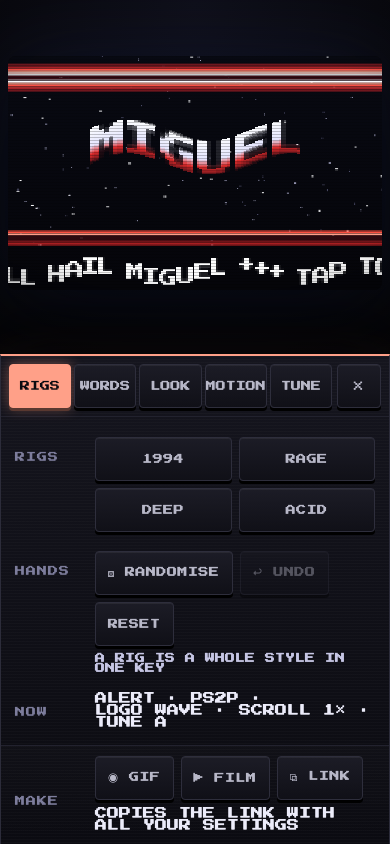
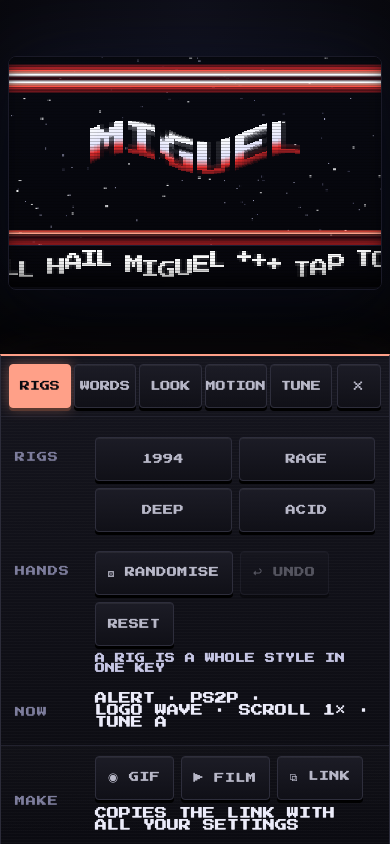
r2v14: caret boundary, pointer guards, and a trough that reads as a shelf
- wrapped caret lands on the row below at a span boundary, not above it
- caret holds on reduced-motion stills — no blink sampling on one-shot
- grabs tracked per pointer id; cancel/up/leave all unbind; a mode flip
  mid-drag tears down instead of driving a dead pin
- reduced-motion 'scroll' seats a caret, not a scrub of an unread clock
- only a real grab prevents default — taps elsewhere still blur/click
- rendered-index map accounts for trim, case, and ß->SS expansion
- stale caret cleared on popstate/hash navigation
- tube gets a hairline bezel; the trough gains a top rule and floor so
  text can never read as floating in the gap beneath the glass
- README: name seeds the default, the #g2 link carries the full spec;
  film carries the tune unless TUNE is off

Changed region(s): [[0.0, 0.0616, 0.9846, 0.2156], [0.0, 0.2464, 0.9846, 0.3389], [0.9538, 0.1848, 0.9846, 0.2156]]

diff --git a/src/App.tsx b/src/App.tsx
@@ -117,6 +117,10 @@ export default function App() {
     const onNav = () => {
       const n = pathName();
       setSpec(decodeSpec(location.hash, n ?? ''));
+      // the new text didn't come from the field — a stale glass caret
+      // could land inside the +++ tail
+      const dd = demoRef.current;
+      if (dd) dd.pinCaret = -1;
       if (n !== nameRef.current) {
         // the route owns the phase: back to '/' means landing, a different
         // name means a fresh tube that still has to be powered on — and a
@@ -536,54 +540,70 @@ export default function App() {
           onPointerDown={(e) => {
             // with the deck open the glass is a surface you can grab —
             // a press on the parked line seats the field's caret there;
-            // a drag on the pinned crawl walks the sentence by hand
+            // a drag on the pinned crawl walks the sentence by hand.
+            // reduced motion draws the 'scroll' pin parked too, so a grab
+            // there is a caret seat, not a scrub of a clock no one reads
             const d = demoRef.current;
             const m = previewRef.current;
-            if (!d || (m !== 'scrollhold' && m !== 'scroll')) return;
-            // keep the field's focus — a canvas press must not blur it
-            e.preventDefault();
+            const park = m === 'scrollhold' || (m === 'scroll' && REDUCED);
+            if (!d || (!park && m !== 'scroll')) return;
             const cv = e.currentTarget;
-            cv.setPointerCapture(e.pointerId);
             const toCv = (x: number, y: number): [number, number] => {
               const r = cv.getBoundingClientRect();
               return [(x - r.left) * 320 / r.width, (y - r.top) * 200 / r.height];
             };
-            if (m === 'scrollhold') {
+            const pid = e.pointerId;
+            // every grab guards on its own pointerId and dies the moment
+            // the pin it was bound to leaves — a second finger or a mid-drag
+            // blur can't keep driving a dead mode
+            const bind = (move: (ev: PointerEvent) => void, up: () => void) => {
+              const mm = (ev: PointerEvent) => {
+                if (ev.pointerId !== pid) return;
+                if (previewRef.current !== m) { done(); return; }
+                move(ev);
+              };
+              const done = () => { up(); cv.removeEventListener('pointermove', mm); cv.removeEventListener('pointerup', done); cv.removeEventListener('pointercancel', done); };
+              cv.addEventListener('pointermove', mm);
+              cv.addEventListener('pointerup', done);
+              cv.addEventListener('pointercancel', done);
+            };
+            if (park) {
               const el = document.querySelector<HTMLTextAreaElement>('textarea[aria-label="scrolltext"]');
               if (!el) return;
+              // keep the field's focus — a canvas press must not blur it
+              e.preventDefault();
+              cv.setPointerCapture(pid);
+              // seat() maps a glass index back to a field index — the glass
+              // shows the value uppercased and trimmed, so lengths can drift
+              // (a leading space, ß→SS); walk the field until its uppercase
+              // prefix reaches the glass index
+              const lead = (el.value.match(/^\s*/) ?? [''])[0].length;
               const seat = (x: number, y: number) => {
                 const [px, py] = toCv(x, y);
-                const i = Math.min(d.caretAt(px, py), el.value.length);
+                const gi = d.caretAt(px, py) + lead;
+                let i = 0, g = 0;
+                while (i < el.value.length && g < gi) { g += el.value[i].toUpperCase().length; i++; }
                 el.setSelectionRange(i, i);
-                d.pinCaret = i;
+                d.pinCaret = g - lead;
               };
               seat(e.clientX, e.clientY);
               el.focus();
-              const move = (ev: PointerEvent) => seat(ev.clientX, ev.clientY);
-              const up = () => { cv.removeEventListener('pointermove', move); cv.removeEventListener('pointerup', up); cv.removeEventListener('pointercancel', up); };
-              cv.addEventListener('pointermove', move);
-              cv.addEventListener('pointerup', up);
-              cv.addEventListener('pointercancel', up);
+              bind((ev) => seat(ev.clientX, ev.clientY), () => {});
             } else {
               // scrubs only where the crawl lives — a grab elsewhere is a
               // plain touch on the tube
               const [, py] = toCv(e.clientX, e.clientY);
               if (py < 158) return;
+              cv.setPointerCapture(pid);
               let lastX = e.clientX, lastY = e.clientY;
-              const move = (ev: PointerEvent) => {
+              bind((ev) => {
                 const k = 320 / cv.getBoundingClientRect().width;
                 d.scrub((ev.clientX - lastX) * k);
                 // vertical drag bends the wave while the grab is held —
                 // up is wilder, down is flatter, release snaps back to 1
                 d.bend((ev.clientY - lastY) * (200 / cv.getBoundingClientRect().height));
                 lastX = ev.clientX; lastY = ev.clientY;
-              };
-              // release OR a canceled grab snaps the wave back — a stranded
-              // bend must not outlive the gesture
-              const up = () => { d.pinBend = 1; cv.removeEventListener('pointermove', move); cv.removeEventListener('pointerup', up); cv.removeEventListener('pointercancel', up); };
-              cv.addEventListener('pointermove', move);
-              cv.addEventListener('pointerup', up);
-              cv.addEventListener('pointercancel', up);
+              }, () => { d.pinBend = 1; });
             }
           }} />
         <div className="crt" aria-hidden>
@@ -658,7 +678,15 @@ export default function App() {
           onCaret={(i) => {
             const d = demoRef.current;
             if (!d) return;
-            d.pinCaret = i;
+            // the glass shows the value uppercased and trimmed — map the
+            // field's caret index into glass coordinates the same way the
+            // pointer path maps them back
+            if (i >= 0) {
+              const el = document.querySelector<HTMLTextAreaElement>('textarea[aria-label="scrolltext"]');
+              const v = el?.value ?? '';
+              const lead = (v.toUpperCase().match(/^\s*/) ?? [''])[0].length;
+              d.pinCaret = v.slice(0, i).toUpperCase().length - lead;
+            } else d.pinCaret = -1;
             if (REDUCED && phaseRef.current === 'running') d.renderReduced(greetzRef.current);
           }}
           linkNote={linkNote}

diff --git a/src/lib/demo.ts b/src/lib/demo.ts
@@ -177,8 +177,13 @@ export class Demo {
   // plate down to this top edge when it wraps
   private trough() {
     const c = this.ctx;
-    c.fillStyle = '#05050a';
+    c.fillStyle = '#06060c';
     c.fillRect(0, 162, W, H - 162);
+    // hairline top rule and a floor — without edges the band reads as the
+    // page's void and trough text looks like it escaped the glass
+    c.fillStyle = '#1c1c30';
+    c.fillRect(0, 162, W, 1);
+    c.fillRect(0, H - 2, W, 2);
   }
 
   // a single copper bar: 24px tall, hot in the middle, dark at edges,
@@ -252,9 +257,11 @@ export class Demo {
     const gh = 8 * scale;
     // the wave never dips a glyph under the glass AND never lifts one into
     // the copper — the trough is a reserved band, so the whole excursion
-    // clamps inside it at every speed and amplitude
-    const band = Math.min(amp, (H - 2 - 164 - gh) / 2);
-    const yb = Math.max(164 + band, Math.min(this.pinY ?? yBase, H - 2 - band - gh));
+    // clamps inside it at every speed and amplitude; the margins are real:
+    // 8px under the bar and 8px off the bottom edge, so no letter ever
+    // kisses the glass's invisible lip (dark-on-dark, the edge has no line)
+    const band = Math.min(amp, (H - 8 - 166 - gh) / 2);
+    const yb = Math.max(166 + band, Math.min(this.pinY ?? yBase, H - 8 - band - gh));
     const a2 = band;
     const line = text ?? this.scrolltext;
     const adv = this.font.px * scale * 1.0;
@@ -743,7 +750,7 @@ export class Demo {
     }
     if (cur) rows.push({ t: cur, s: cs, e: cs + cur.length });
     const last = rows.length - 1;
-    return { rows: rows.map((r, i) => ({ ...r, y: 186 - (last - i) * 11 })), scale: 1 };
+    return { rows: rows.map((r, i) => ({ ...r, y: 184 - (last - i) * 11 })), scale: 1 };
   }
 
   // a press on the parked line is a press on the field — answers the
@@ -792,16 +799,19 @@ export class Demo {
       // copper rather than letting a row climb through the bar
       if (rows.length > 1 && rows[0].y - 4 < 162) {
         const c = this.ctx;
-        c.fillStyle = '#05050a';
+        c.fillStyle = '#06060c';
         c.fillRect(0, rows[0].y - 4, W, H - (rows[0].y - 4));
       }
       for (const r of rows) this.tinyText(r.t, r.y, 0, scale);
-      // the glass IS the field while it's parked — the caret blinks at the
-      // index the input carries, so the line under your eyes and the line
-      // under your hands are the same object
-      if (this.pinCaret >= 0 && Math.floor(performance.now() / 480) % 2 === 0) {
+      // the glass IS the field while it's parked — the caret sits at the
+      // index the input carries. it blinks on the live clock, but on a
+      // reduced-motion still it must hold — a one-shot paint landing in
+      // the blink's off half would leave no caret until the next event
+      if (this.pinCaret >= 0 && (still || Math.floor(performance.now() / 480) % 2 === 0)) {
         const ci = Math.min(this.pinCaret, this.scrolltext.trim().length);
-        const row = rows.find((r) => ci <= r.e) ?? rows[rows.length - 1];
+        // a row's span ends where the next row's word starts — an index on
+        // the boundary belongs to the row below, so compare strictly
+        const row = rows.find((r) => ci < r.e) ?? rows[rows.length - 1];
         if (row) {
           const rx = (W - this.drawnW(row.t, scale)) / 2 + this.drawnW(row.t.slice(0, Math.max(0, ci - row.s)), scale);
           const c = this.ctx;
@@ -935,8 +945,7 @@ export class Demo {
     c.fillRect(0, 142, W, H - 142);
     // the trough the words own is solid — a bar ghosting through at a
     // fifth strength still slices a 16px glyph
-    c.fillStyle = '#05050a';
-    c.fillRect(0, 162, W, H - 162);
+    this.trough();
     this.waveLogo(t, H * 0.34);
     this.scroller(t);
   }

diff --git a/src/app.css b/src/app.css
@@ -18,6 +18,9 @@ body { background: #060608; overflow: hidden; font-family: 'PS2P', monospace; }
   aspect-ratio: 320 / 200;
   border-radius: 8px;
   overflow: hidden;
+  /* the glass needs a legible edge — a hairline bezel, lighter than the
+     void around it, so trough text can never read as floating outside */
+  border: 1px solid #1a1a28;
   box-shadow: 0 0 80px rgba(80, 120, 255, 0.10), 0 30px 90px rgba(0,0,0,0.8);
 }
 .demoscreen { width: 100%; height: 100%; display: block; image-rendering: pixelated; background: #05050a; }
@@ -36,7 +39,11 @@ body { background: #060608; overflow: hidden; font-family: 'PS2P', monospace; }
   font-size: 16px; cursor: text;
 }
 
-.crt { position: absolute; inset: 0; pointer-events: none; }
+.crt { position: absolute; inset: 0; pointer-events: none;
+  /* inner lip — the tube's own bezel carries the edge, this just deepens
+     the bottom so text meets a floor, not the glass's last pixel row */
+  box-shadow: inset 0 -16px 22px -8px rgba(0,0,0,0.8), inset 0 8px 12px -6px rgba(0,0,0,0.45);
+}
 .crt-lines {
   position: absolute; inset: 0;
   background: repeating-linear-gradient(to bottom, rgba(0,0,0,0.22) 0 1px, transparent 1px 3px);
@@ -334,5 +341,5 @@ body { background: #060608; overflow: hidden; font-family: 'PS2P', monospace; }
   .deck { animation: none; }
   .app .tube { transition: none; }
   .fab::before { animation: none; }
-  .klabel, .dpanel, .resthumb { animation: none; }
+  .klabel, .dpanel, .resthumb, .dfields .field { animation: none; }
 }

diff --git a/src/Deck.tsx b/src/Deck.tsx
@@ -391,7 +391,7 @@ export default function Deck(props: {
           ) : (
             <>
               <Chip on={false} hot={hot} label="◉ GIF" title="600px square loop" onPress={() => props.onExport('gif')} />
-              <Chip on={false} hot={hot} label="▶ FILM" title="720p video with the tune" onPress={() => props.onExport('video')} />
+              <Chip on={false} hot={hot} label="▶ FILM" title="720p video, with the tune if it's on" onPress={() => props.onExport('video')} />
               <Chip on={props.linkState !== 'idle'} hot={hot}
                 label={props.linkState === 'copied' ? '⧉ COPIED' : props.linkState === 'manual' ? '⧉ COPY THIS' : '⧉ LINK'}
                 onPress={props.onShareLink} />

diff --git a/README.md b/README.md
@@ -7,7 +7,9 @@ raster logo, copper bars, a three-layer starfield, a sine-wave scrolltext, a pla
 section with the name carved out, a bouncing blitter pass, a greetz roll — and an
 original procedural chiptune rendered by a four-channel tracker engine.
 
-Everything is seeded from the name. Same name, same demo, forever.
+Everything is seeded from the name — same name, same default demo — and a
+`#g2.` link carries the whole spec, so a shared URL reproduces its own
+cracktro for that name, whatever you changed in the deck.
 
 ## The control deck
 
@@ -35,8 +37,8 @@ link reproduces the exact cracktro — texts, palette, font, tune and all.
 - **◉ GIF** — a 600×600 card: the demo on top, a printed label band with the
   name and credits below, looping seamless through `gifenc`, ready for chat.
 - **▶ FILM** — a 1280×720 film that stays on the recipient's section from
-  first frame to last, with the real tune: WebCodecs + `mp4-muxer` where
-  available, MediaRecorder fallback elsewhere.
+  first frame to last, with the real tune unless the TUNE knob is off:
+  WebCodecs + `mp4-muxer` where available, MediaRecorder fallback elsewhere.
 - **⧉ LINK** — the shareable URL with all your settings in it.
 
 Both exports are a fixed take of the opening section — the part that carries the
